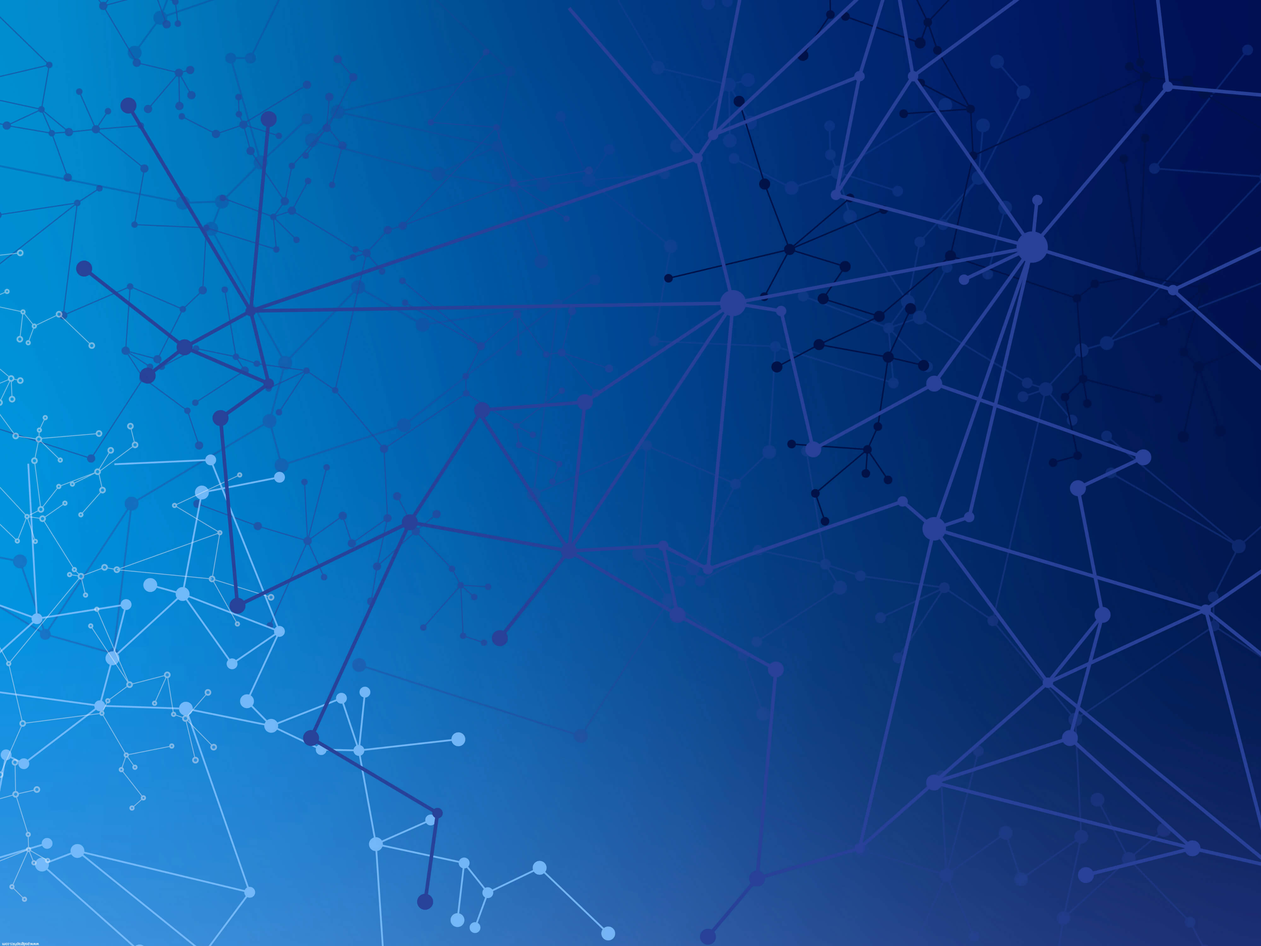
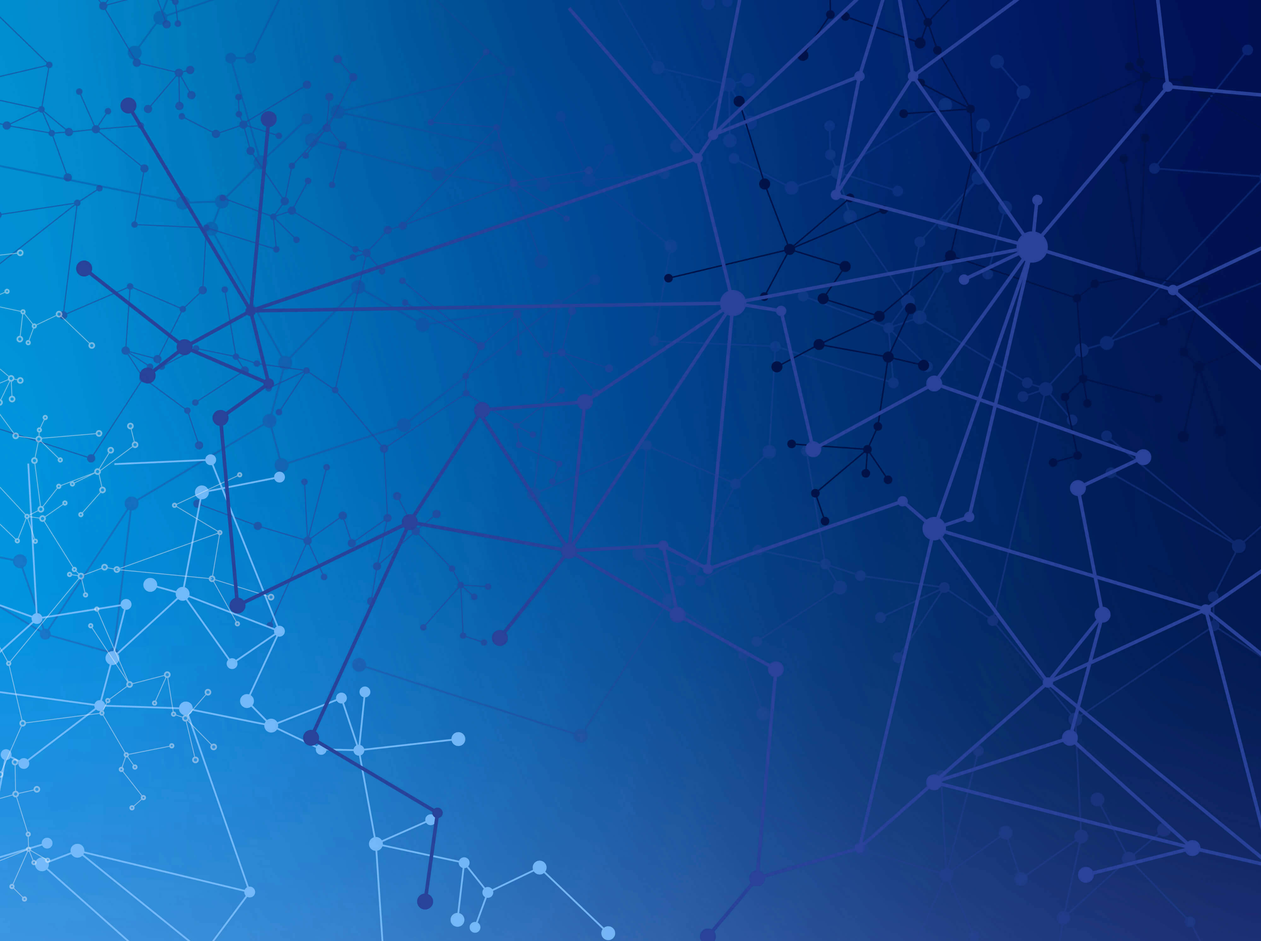
upgrade npm scripts, improve images, reorganize files

diff --git a/css/main.min.css b/css/main.min.css
@@ -1,0 +1,1 @@
+.page-landing,.page-landing h1,body{position:relative}.page-landing h1,.page-landing p{color:#fff;text-shadow:0 0 5px #000}.apply-pop-up .close,.card,.cta-btn,.plus-button,nav h4:hover,nav ul li a{cursor:pointer}a,abbr,acronym,address,applet,article,aside,audio,b,big,blockquote,body,canvas,caption,center,cite,code,dd,del,details,dfn,div,dl,dt,em,embed,fieldset,figcaption,figure,footer,form,h1,h2,h3,h4,h5,h6,header,hgroup,html,i,iframe,img,ins,kbd,label,legend,li,mark,menu,nav,object,ol,output,p,pre,q,ruby,s,samp,section,small,span,strike,strong,sub,summary,sup,table,tbody,td,tfoot,th,thead,time,tr,tt,u,ul,var,video{margin:0;padding:0;border:0;font:inherit;vertical-align:baseline}article,aside,details,figcaption,figure,footer,header,hgroup,menu,nav,section{display:block}body{line-height:1.5;width:100%;background-color:#111}ol,ul{list-style:none}blockquote,q{quotes:none}blockquote:after,blockquote:before,q:after,q:before{content:'';content:none}table{border-collapse:collapse;border-spacing:0}.cfm:after,.cfm:before{content:' ';display:table}.cfm:after{clear:both}h1,h2,h3,h4,h5,h6{font-family:"Open Sans",HelveticaNeue-Light,"Helvetica Neue Light","Helvetica Neue",Helvetica,Arial,"Lucida Grande",sans-serif;font-weight:300;margin:2rem 0 1rem;line-height:1.3}a,p{font-weight:400;line-height:1.7;font-family:"Open Sans",HelveticaNeue-Light,"Helvetica Neue Light","Helvetica Neue",Helvetica,Arial,"Lucida Grande",sans-serif}h2{font-size:2.5rem}h3{font-size:2rem}h4{font-size:1.75rem}h5{font-size:1.5rem}h6{font-size:1rem}p{margin:1rem 0 1.5rem}.page-landing{background-size:cover;background-position:center;box-shadow:0 0 4px 1px #111;min-height:100vh;top:51px;text-align:center;transition:all 0}.page-landing h1{font-family:"Open Sans",HelveticaNeue-Light,"Helvetica Neue Light","Helvetica Neue",Helvetica,Arial,"Lucida Grande",sans-serif;font-size:3rem;font-weight:300;text-align:center;line-height:1.3;margin:0 auto;display:inline-block}.page-landing p{max-width:400px;margin:40px auto 0;padding:0 10px;font-size:1.3rem}.page-landing.home{top:0;background-color:#ddd}.page-landing.home .above-the-fold{background-image:url(../img/network-background-dark.jpg);background-size:cover}.page-landing.home .fvi-logo-white{box-sizing:border-box;position:absolute;top:0;left:0;padding:10px;width:100%;max-width:80px}#overlay,.apply-pop-up,nav{position:fixed}.page-landing.home h2{margin:0;padding:1rem;font-size:3rem;color:#eee;text-shadow:0 0 5px #000}.page-landing.home h3{margin:0;font-size:1.8rem;padding-bottom:1rem;color:#ddd;text-shadow:0 0 5px #000}.page-landing.web{background-image:url(../img/web-landing.jpg);background-position:top}.page-landing.web h1{padding-top:20vh}.page-landing.cyber{background-image:url(../img/cyber-landing.jpg)}.page-landing.cyber h1{padding-top:25vh;text-shadow:0 0 5px #fff;-webkit-animation:cyber-h1 3s infinite alternate;-moz-animation:cyber-h1 3s infinite alternate;-o-animation:cyber-h1 3s infinite alternate;animation:cyber-h1 3s infinite alternate}.title-div{display:table;width:100%;height:250px}.title-div .title-headers{display:table-cell;vertical-align:middle}.cards-container{display:flex;box-sizing:border-box;flex-flow:row wrap;justify-content:center;align-items:flex-start;align-content:center;padding:20px;min-height:calc(100vh - 250px)}@keyframes cyber-h1{0%,60%{color:#fff;top:0;left:0}60.3%{color:rgba(255,255,255,.2);top:5px;left:5px}61%,62.5%{color:#fff;top:0;left:0}62.8%{color:rgba(255,255,255,.2);top:8px;left:8px}63.6%{color:#fff;top:0;left:0}80%{color:#fff;top:0;left:0;text-shadow:0 0 0 #fff}80.3%{color:rgba(255,255,255,.4);top:34px;left:34px;text-shadow:3px 3px 3px #fff}80.6%{color:#fff;top:0;left:0;text-shadow:0 0 5px #fff}83%{color:#fff;top:0;left:0}83.4%{color:rgba(255,255,255,.2);top:12px;left:12px;text-shadow:3px 3px 3px #fff}83.8%{color:#fff;top:0;left:0;text-shadow:0 0 5px #fff}85%{color:#fff;top:0;left:0}85.5%{color:rgba(255,255,255,.2);top:8px;left:8px}86%{color:#fff;top:0;left:0;text-shadow:0 0 0 #fff}92.4%{color:#fff;top:0;left:0;text-shadow:3px 3px 3px #fff}92.7%{color:rgba(255,255,255,.2);top:25px;left:25px}93%{color:rgba(255,255,255,.8);top:0;left:0;text-shadow:0 0 0 #fff}100%{color:#fff;top:0;left:0}}.infographic-container{width:100%;background-color:#fff;text-align:center}.infographic-container .infographic{box-sizing:border-box;width:100%;max-width:1000px;margin:0 auto;display:block}.programs-container{display:none;background-color:#111}footer{width:100%;background-color:#003e67;margin-top:-7px;text-align:center}.flexbox-container{display:block;text-align:center;max-width:900px;margin:auto}.campus-info-container,.links-container,.social-media-container{box-sizing:border-box;width:calc(100% / 3);min-width:200px;padding:20px;display:inline-block;vertical-align:top}.campus-info-container h4,.links-container h4,.social-media-container h4{color:#028dea;margin:0;padding-bottom:10px}.links-container a{font-size:.95rem;color:#eee;border-bottom:1px solid #eee;text-decoration:none;white-space:nowrap;line-height:2;border-bottom-color:transparent}.links-container a:focus,.links-container a:hover{border-bottom-width:2px;text-decoration:none;border-bottom-color:#eee}.links-container a:visited{color:#eee;border-color:#eee}.social-media-container a{margin:10px;color:#eee;display:inline-block;font-size:2rem}.social-media-container a:focus,.social-media-container a:hover{color:#ddd}.campus-info-container{text-align:left}.banner,.campus-info-container h4,.cta-btn,.plus-button,nav,nav ul{text-align:center}.campus-info-container img{box-sizing:border-box;width:100%;max-width:300px}.campus-info-container address{padding-left:10px}.campus-info-container address p{color:#eee;font-size:.9rem;margin:0}nav h4,nav ul li a{color:#ccc;font-family:"Open Sans",HelveticaNeue-Light,"Helvetica Neue Light","Helvetica Neue",Helvetica,Arial,"Lucida Grande",sans-serif}.sponsors-container{box-sizing:border-box;display:block;width:100%;text-align:center;background-color:#003558}nav ul li,nav ul li a{display:inline-block}nav h4:hover,nav ul li a:hover{background-color:#333;color:#028dea}.sponsors-container img{box-sizing:border-box;display:inline-block;vertical-align:middle;padding:20px;width:100%;max-width:300px}#overlay{background:#000;bottom:0;display:none;left:0;opacity:.7;right:0;top:0;z-index:101;color:#000;font-size:0}nav{width:100%;background-color:#222;z-index:1000;box-shadow:0 2px 8px 0 rgba(0,0,0,.7)}nav h4{font-size:14px;font-weight:400;padding:10px 0 7px;display:none;margin:0}nav ul li a{text-decoration:none;font-size:12px;font-weight:600;padding:15px;border-bottom:3px solid #222}nav ul li a:hover{border-color:#333}nav ul li .apply{color:#fff;background-color:#028dea;border-bottom-color:#028dea}nav ul li .apply:hover{border-color:#fff;color:#fff;background-color:#3baffd}.section-in-view{border-color:#028dea;background-color:#333}.home-button:hover{background-color:#000;border-color:#028dea}.apply-pop-up{box-sizing:border-box;display:none;width:calc(90vw - 30px);max-width:400px;margin:60px auto 0;left:50%;transform:translateX(-50%);border-radius:12px;padding:15px;background-color:#ddd;box-shadow:0 15px 70px 0 #000;z-index:1001}.apply-pop-up h3{color:#000;margin:0 0 10px}.apply-pop-up .close{font-size:1rem;color:#b00;background-color:transparent;border:none;position:absolute;top:3px;right:5px;padding:0;margin:0}.apply-pop-up .close:hover{color:#f22}.apply-pop-up form{box-sizing:border-box}.apply-pop-up form input,.apply-pop-up form textarea{box-sizing:border-box;width:100%;border-radius:5px;font-size:1rem;padding:8px;margin-top:10px;border:1px solid #ccc;transition:all .1s}.apply-pop-up form input:focus,.apply-pop-up form input:hover,.apply-pop-up form textarea:focus,.apply-pop-up form textarea:hover{outline:0;box-shadow:0 0 4px #000}.apply-pop-up form textarea{height:200px;font-family:"Open Sans",HelveticaNeue-Light,"Helvetica Neue Light","Helvetica Neue",Helvetica,Arial,"Lucida Grande",sans-serif}.apply-pop-up form button{display:block;font-size:1.2rem;padding:5px;border:none;border-radius:5px;background-color:#028dea;background-image:-webkit-linear-gradient(top,#21a6ff,#028DEA);background-image:-moz-linear-gradient(top,#21a6ff,#028DEA);background-image:-ms-linear-gradient(top,#21a6ff,#028DEA);background-image:-o-linear-gradient(top,#21a6ff,#028DEA);background-image:linear-gradient(to bottom,#21a6ff,#028DEA);color:#fff;cursor:pointer;margin-top:3px}#radio-cyber:not(:checked)~.programs-container .radio-cyber,#radio-web:not(:checked)~.programs-container .radio-web,.apply-pop-up .sent-message{display:none}.apply-pop-up form button:focus,.apply-pop-up form button:hover{background:#5abafa;background-image:-webkit-linear-gradient(top,#5abafa,#21a6ff);background-image:-moz-linear-gradient(top,#5abafa,#21a6ff);background-image:-ms-linear-gradient(top,#5abafa,#21a6ff);background-image:-o-linear-gradient(top,#5abafa,#21a6ff);background-image:linear-gradient(to bottom,#5abafa,#21a6ff)}input[name=program-selector]{position:absolute;opacity:0;top:-9999px;left:-9999px}.card{width:280px;margin:0 30px 40px;background-color:#444;border:3px solid #222;border-radius:6px;overflow:hidden;box-shadow:0 15px 40px 5px rgba(0,0,0,.7);transition:transform .2s}.card:hover{transform:scale(1.03)}.card figure img{width:100%}.card h4{color:#fff;margin:1rem auto;padding-bottom:.5rem}.card h4 .first-letter,.card h4 .second-letter{font-weight:400;color:#028dea}.arrow,.plus-button{border:none;color:#fff;z-index:100;display:block}.arrow{font-size:5rem;text-shadow:0 0 10px #000;position:absolute;left:calc(50% - 1.6rem)}.banner,.banner .image-block,.plus-button,section{position:relative}.arrow-down{bottom:13px;-webkit-animation:arrow-down 1s infinite;animation:arrow-down 1s infinite;-webkit-animation-timing-function:ease-out;animation-timing-function:ease-out;-webkit-animation-direction:alternate;animation-direction:alternate}@-webkit-keyframes arrow-down{from{bottom:23px}to{bottom:13px}}@keyframes arrow-down{from{bottom:23px}to{bottom:13px}}.arrow-up{top:-80px;-webkit-animation:arrow-up 1s infinite;animation:arrow-up 1s infinite;-webkit-animation-timing-function:ease-out;animation-timing-function:ease-out;-webkit-animation-direction:alternate;animation-direction:alternate}@-webkit-keyframes arrow-up{from{top:-70px}to{top:-80px}}@keyframes arrow-up{from{top:-70px}to{top:-80px}}.plus-button{background-color:#028dea;width:30px;height:30px;line-height:1.3;font-family:"Open Sans",HelveticaNeue-Light,"Helvetica Neue Light","Helvetica Neue",Helvetica,Arial,"Lucida Grande",sans-serif;font-weight:600;padding:0;font-size:1.4rem;border-radius:100%;margin:20px auto 0;-webkit-transition:all .6s ease-out;transition:all .6s ease-out}.banner .image-block,.banner h2,.cta-btn{display:inline-block}.plus-button:hover{background-color:#fff;color:#028dea}.plus-button:focus{outline:0}.plus-button.opened{color:#fff;background-color:rgba(150,150,150,.5);-webkit-transform-origin:center;transform-origin:center;-webkit-transform:translateY(60px) rotate(225deg);transform:translateY(60px) rotate(225deg)}.plus-button.opened:hover{color:#fff;background-color:rgba(100,100,100,.8)}.cta-btn{color:#fff;font-family:'Open Sans',HelveticaNeue-Light,"Helvetica Neue Light","Helvetica Neue",Helvetica,Arial,"Lucida Grande",sans-serif;font-size:1.2rem;font-weight:400;padding:5px 30px;margin-bottom:30px;margin-top:30px;border-radius:5px;box-shadow:0 3px 0 0 #555;z-index:200;-webkit-transition:all .3s;transition:all .3s}.cta-btn:active{box-shadow:none;-webkit-transform:translateY(3px);transform:translateY(3px);-webkit-transition:transform .1s,box-shadow .1s;-webkit-transition:box-shadow .1s,-webkit-transform .1s;transition:box-shadow .1s,-webkit-transform .1s;transition:transform .1s,box-shadow .1s;transition:transform .1s,box-shadow .1s,-webkit-transform .1s}.apply-btn{background:#e66;background-image:-webkit-linear-gradient(top,#e66,#b33);background-image:-moz-linear-gradient(top,#e66,#b33);background-image:-ms-linear-gradient(top,#e66,#b33);background-image:-o-linear-gradient(top,#e66,#b33);background-image:linear-gradient(to bottom,#e66,#b33)}.apply-btn:hover{background:#f77;background-image:-webkit-linear-gradient(top,#f77,#c44);background-image:-moz-linear-gradient(top,#f77,#c44);background-image:-ms-linear-gradient(top,#f77,#c44);background-image:-o-linear-gradient(top,#f77,#c44);background-image:linear-gradient(to bottom,#f77,#c44)}#certifications,#partners,#summary{background-position:center}#comparison,#tuition{background-position:top}#cirriculum,#resources,#student-work{background-position:bottom}.question-btn{background-color:#999}.question-btn:hover{background-color:#bbb}section{margin-top:80px;z-index:2}section:first-of-type{margin-top:131px}section:last-of-type{margin-bottom:80px}.banner{width:100%;padding:80px 0 120px;z-index:3;-webkit-transition:all .6s ease-in-out;transition:all .6s ease-in-out;background-size:cover;border-top:1px solid #222;border-bottom:1px solid #222}.banner h2{color:#fff;font-size:2.5rem;font-family:"Open Sans",HelveticaNeue-Light,"Helvetica Neue Light","Helvetica Neue",Helvetica,Arial,"Lucida Grande",sans-serif;font-weight:300;text-shadow:0 1px 8px #000;padding:40px 0 0;margin:0;-webkit-transition:all .6s;transition:all .6s}.banner .image-block{padding-bottom:30px;top:30px}.banner .image-block img{display:inline-block;width:90px;max-height:75px;margin:.5rem 1rem}.banner.shrink{padding:20px 0;box-shadow:0 -2px 4px 0 #111}.content-container{background-color:#efefef;box-shadow:0 0 4px 1px #111;width:100%;overflow:hidden;display:none}.content-container .content{margin:0 auto;max-width:600px;text-align:left;padding:10px 20px}.content-container .content h4{color:#003352;font-weight:400}.content-container .content h4:first-child{margin-top:45px}.content-container .content p{color:#333}.content-container .content a{color:#028dea;border-bottom:1px solid #028dea;text-decoration:none}.content-container .content a:focus,.content-container .content a:hover{border-bottom-width:2px;text-decoration:none}.content-container .content a:visited{color:#028dea;border-color:#028dea}.content .bold{font-weight:bolder}#summary{background-image:url(../img/keyboard.jpg)}#cirriculum{background-image:url(../img/courses.jpg)}#comparison{background-image:url(../img/code.jpg)}#certifications{background-image:url(../img/certifications.jpg)}#partners{background-image:url(../img/partners.jpg)}#tuition{background-image:url(../img/finance.jpg)}#resources{background-image:url(../img/resources.jpg)}#student-work{background-image:url(../img/projects.jpg)}#call-to-action-section{background-color:#003558;position:relative;margin-bottom:0}#call-to-action-section .content{padding:10px;text-align:center}#call-to-action-section .content .cta-btn-container{margin:0 auto}#call-to-action-section .content p{font-size:1.2rem;margin:2rem 0 1rem;color:#eee}@media all and (max-width:920px){.page-landing{top:0}footer .sponsors-container{padding-bottom:45px}.page-landing.home{background-position:center}.page-landing.home .fvi-logo-white{max-width:50px}.page-landing.web h1{font-size:3rem;padding-top:15vh}.page-landing.web p{font-size:1.2rem}.page-landing.cyber h1{font-size:3rem;padding-top:28vh}.page-landing.cyber p{font-size:1.5rem}nav{bottom:0;box-shadow:0 -1px 2px 0 rgba(0,0,0,.9)}nav h4{display:block;border-bottom:3px solid #222;background:#222;background-image:-webkit-linear-gradient(top,#555,#222);background-image:-moz-linear-gradient(top,#555,#222);background-image:-ms-linear-gradient(top,#555,#222);background-image:-o-linear-gradient(top,#555,#222);background-image:linear-gradient(to bottom,#555,#222)}nav h4:hover{border-color:#333;background:#333;background-image:-webkit-linear-gradient(top,#666,#333);background-image:-moz-linear-gradient(top,#666,#333);background-image:-ms-linear-gradient(top,#666,#333);background-image:-o-linear-gradient(top,#666,#333);background-image:linear-gradient(to bottom,#666,#333)}nav ul{display:none}nav ul li,nav ul li a{width:100%}nav ul li a{border-top:1px solid #333;font-size:14px;padding:10px 0 8px}nav ul li .home-button:focus,nav ul li .home-button:hover{border-top-color:#333;border-bottom-color:#111}nav ul li .apply:focus,nav ul li .apply:hover{border-top-color:#333;border-bottom-color:#3baffd}section:first-of-type{margin-top:80px}.banner h1{font-size:2rem}.banner .image-block{display:block;top:20px}.banner .image-block img{width:50px}}@media all and (max-width:760px){.title-div{height:200px}.page-landing.home h2{font-size:2.5rem}.page-landing.home h3{font-size:1.6rem}footer .sponsors-container img{max-width:250px}.page-landing.web h1{font-size:2.7rem;padding-top:16vh}.page-landing.web p{font-size:1.1rem;margin-top:1rem}.page-landing.cyber h1{font-size:2rem;padding-top:30vh}.page-landing.cyber p{font-size:1rem;margin-top:1rem}#call-to-action-section .content p{font-size:1rem;margin:1rem}}@media all and (max-width:760px) and (max-width:604px){.title-div{height:150px}.page-landing.home h2{max-width:370px;margin:auto}.cta-btn{display:block;max-width:200px}.apply-btn{margin:10px auto}.question-btn{margin:auto}footer .links-container a:nth-of-type(2):after{content:"\a";white-space:pre}}@media all and (max-width:400px){.page-landing.home h2{font-size:1.8rem;max-width:270px}.page-landing.home h3{font-size:1.1rem}.card h4{font-size:1.5rem;margin:.5rem 0}.apply-pop-up{margin-top:20px}.apply-pop-up form textarea{height:150px}.page-landing.web h1{font-size:2.3rem}.page-landing.web p{margin-top:1rem;font-size:.95rem}.page-landing.cyber h1{padding-top:27vh;font-size:1.8rem}.page-landing.cyber p{margin-top:3vh;font-size:.9rem}.campus-info-container,.links-container,.social-media-container{min-width:100%}footer .links-container a:after{content:"\a";white-space:pre}}

diff --git a/index.html b/index.html
@@ -167,11 +167,11 @@
                         <p></p>
                     </div>
                     <div class="content cyber radio-cyber">
-                        <h3>Heading 1</h3>
+                        <h4>Heading 1</h4>
                         <p>Miami ipsum D. Wade amet cafe con leche park west miami literally basel ricer mission bro collins ave midtown cocowalk completo vizcaya metrorail sweetwater. Que fancy supposably power love hour 836 park west oye morena.</p>
-                        <h3>Heading 2</h3>
+                        <h4>Heading 2</h4>
                         <p>Flagler arroz con mango abuelita hialeah pata sucia cafe bustelo. Telly abuelita metrorail critical mass Allapattah coconut grove dolphin mall doral booty bass. Ya tu sabes LIV ño telly abuelita que fancy no yeah, yeah no metrorail de pinga.</p>
-                        <h3>Heading 3</h3>
+                        <h4>Heading 3</h4>
                         <p>Pero like que cute irregardless, pastelitos LIV civic center vizcaya souwesera ocean drive ño critical mass art basel gorda. FIU quesito little haiti westchester Miami time doral cafe llave.</p>
                     </div>
                 </div>
@@ -204,11 +204,11 @@
                 </div>
                 <div class="content-container">
                     <div class="content cyber">
-                        <h3>Heading 1</h3>
+                        <h4>Heading 1</h4>
                         <p>Miami ipsum D. Wade amet cafe con leche park west miami literally basel ricer mission bro collins ave midtown cocowalk completo vizcaya metrorail sweetwater. Que fancy supposably power love hour 836 park west oye morena.</p>
-                        <h3>Heading 2</h3>
+                        <h4>Heading 2</h4>
                         <p>Flagler arroz con mango abuelita hialeah pata sucia cafe bustelo. Telly abuelita metrorail critical mass Allapattah coconut grove dolphin mall doral booty bass. Ya tu sabes LIV ño telly abuelita que fancy no yeah, yeah no metrorail de pinga.</p>
-                        <h3>Heading 3</h3>
+                        <h4>Heading 3</h4>
                         <p>Pero like que cute irregardless, pastelitos LIV civic center vizcaya souwesera ocean drive ño critical mass art basel gorda. FIU quesito little haiti westchester Miami time doral cafe llave.</p>
                     </div>
                 </div>
@@ -250,19 +250,19 @@
                 </div>
                 <div class="content-container">
                     <div class="content web radio-web">
-                        <p><span class="bold">Tuition &amp; Fees:</span> $13,925</p>
-                        <p><span class="bold">Books, Laptop, &amp; Supplies:</span> $1,050</p>
+                        <br>
+                        <p><span class="bold">Tuition &amp; Fees:</span> $13,925<br><span class="bold">Books, Laptop, &amp; Supplies:</span> $1,050</p>
                         <h4>Financial Aid: Everyone Can Afford A Quality Education</h4>
-                        <p>Since we are an accredited institutuion, many students can afford our programs with grants, loans, easy payments and other ways to manage tuition costs. Few, if any Coding Boot Camps or Web Developer Schools can offer the amount of options we can offer in terms of financing.</p>
+                        <p>Since we are an <a target="_blank" href="http://www.fvi.edu/en/about-FVI/">accredited</a> institutuion, many students can afford our programs with grants, loans, easy payments and other ways to manage tuition costs. Few, if any Coding Boot Camps or Web Developer Schools can offer the amount of options we can offer in terms of financing.</p>
                         <p>Florida Vocational Institute maintains a staff of financial aid professionals to assist students in obtaining the financial assistance they require to meet their educational expenses. Available resources include federal grant and loan programs, and student loans from private lenders.</p>
                         <p>Federal assistance programs are administered through the U.S. Department of Education. Any U.S. citizen, national, or person in the United States for other than temporary reasons who is enrolled and accepted may apply for these programs. Most forms of financial assistance are available for each July 1-June 30 award period.</p>
                         <p>Every student considering an application for financial aid should request a copy of the current guide, Funding Your Education, published by the U.S. Department of Education. This important document can be obtained online from <a target="_blank" title="The United States Office of Federal Student Aid" href="http://studentaid.ed.gov/">The United States Office of Federal Student Aid</a> and will assist persons in understanding eligibility requirements.</p>
                     </div>
                     <div class="content cyber radio-cyber">
-                        <p><span class="bold">Tuition &amp; Fees:</span> $13,925</p>
-                        <p><span class="bold">Books, Laptop, &amp; Supplies:</span> $2,475</p>
+                        <br>
+                        <p><span class="bold">Tuition &amp; Fees:</span> $13,925<br><span class="bold">Books, Laptop, &amp; Supplies:</span> $2,475</p>
                         <h4>Financial Aid: Everyone Can Afford A Quality Education</h4>
-                        <p>Since we are an accredited institutuion, many students can afford our programs with grants, loans, easy payments and other ways to manage tuition costs. Few, if any Coding Boot Camps or Web Developer Schools can offer the amount of options we can offer in terms of financing.</p>
+                        <p>Since we are an <a target="_blank" href="http://www.fvi.edu/en/about-FVI/">accredited</a> institutuion, many students can afford our programs with grants, loans, easy payments and other ways to manage tuition costs. Few, if any Coding Boot Camps or Web Developer Schools can offer the amount of options we can offer in terms of financing.</p>
                         <p>Florida Vocational Institute maintains a staff of financial aid professionals to assist students in obtaining the financial assistance they require to meet their educational expenses. Available resources include federal grant and loan programs, and student loans from private lenders.</p>
                         <p>Federal assistance programs are administered through the U.S. Department of Education. Any U.S. citizen, national, or person in the United States for other than temporary reasons who is enrolled and accepted may apply for these programs. Most forms of financial assistance are available for each July 1-June 30 award period.</p>
                         <p>Every student considering an application for financial aid should request a copy of the current guide, Funding Your Education, published by the U.S. Department of Education. This important document can be obtained online from <a target="_blank" title="The United States Office of Federal Student Aid" href="http://studentaid.ed.gov/">The United States Office of Federal Student Aid</a> and will assist persons in understanding eligibility requirements.</p>
@@ -319,11 +319,11 @@
             <section id="call-to-action-section" class="web cyber">
                 <a class="arrow arrow-up smoothScroll" href="#top"><i class="fa fa-angle-up" aria-hidden="true"></i></a>
                 <div class="content">
+                    <p class="radio-web">Learn to code in 9 months.<br>Become a Web Developer.</p>
+                    <p class="radio-cyber">Level up your job skills.<br>Become job-ready 9 months.</p>
                     <div class="cta-btn-container">
                         <span class="cta-btn apply-btn">Apply For Free <i class="fa fa-angle-double-right" aria-hidden="true"></i></span>
                     </div>
-                    <p class="radio-web">Learn to code in 9 months.<br>Become a Web Developer.</p>
-                    <p class="radio-cyber">Level up your job skills.<br>Become job-ready 9 months.</p>
                     <p></p>
                 </div>
                 <div class="line"></div>
@@ -338,10 +338,10 @@
             <div class="links-container">
                 <h4>Useful Links</h4>
                <ul>
-                   <li><a target="_blank" href="http://www.fvi.edu/en/blog">Blog</a></li>
-                   <li><a target="_blank" href="http://www.fvi.edu/consumer-information/">Consumer Information</a></li>
-                   <li><a target="_blank" href="http://www.fvi.edu/net-price-calculator/">Net Price Calculator</a></li>
-                   <li><a target="_blank" href="http://fvi.edu/annual_security_report/2015-Annual-Security-Report-FVI.pdf">Annual Security Report</a></li>
+                   <li><a target="_blank" href="http://www.fvi.edu/en/blog"><i class="fa fa-angle-double-right" aria-hidden="true"></i> Blog</a></li>
+                   <li><a target="_blank" href="http://www.fvi.edu/consumer-information/"><i class="fa fa-angle-double-right" aria-hidden="true"></i> Consumer Information</a></li>
+                   <li><a target="_blank" href="http://www.fvi.edu/net-price-calculator/"><i class="fa fa-angle-double-right" aria-hidden="true"></i> Net Price Calculator</a></li>
+                   <li><a target="_blank" href="http://fvi.edu/annual_security_report/2015-Annual-Security-Report-FVI.pdf"><i class="fa fa-angle-double-right" aria-hidden="true"></i> Annual Security Report</a></li>
                </ul>
             </div><!-- remove space
          --><div class="social-media-container">

diff --git a/js/bundle.min.js b/js/bundle.min.js
@@ -1,0 +1,1 @@
+(function e(t,n,r){function s(o,u){if(!n[o]){if(!t[o]){var a=typeof require=="function"&&require;if(!u&&a)return a(o,!0);if(i)return i(o,!0);var f=new Error("Cannot find module '"+o+"'");throw f.code="MODULE_NOT_FOUND",f}var l=n[o]={exports:{}};t[o][0].call(l.exports,function(e){var n=t[o][1][e];return s(n?n:e)},l,l.exports,e,t,n,r)}return n[o].exports}var i=typeof require=="function"&&require;for(var o=0;o<r.length;o++)s(r[o]);return s})({1:[function(require,module,exports){!function(){function show(){$("#overlay").fadeIn();$(".apply-pop-up").fadeIn()}function hide(){$("#overlay").fadeOut();$(".apply-pop-up").fadeOut()}function submit(){$.ajax({url:"",type:"post",data:$(".apply-pop-up form").serialize(),success:function(){$(this).closest("form").fadeOut(function(){$(this).closest(".sent-message").fadeIn()})}})}module.exports.show=show;module.exports.hide=hide;module.exports.submit=submit}()},{}],2:[function(require,module,exports){!function(){const mobileMenuWidth="920";module.exports.plusButtons=document.getElementsByClassName("plus-button");module.exports.mobileMenuWidth=mobileMenuWidth;module.exports.topPadding=window.innerWidth>=mobileMenuWidth?52:0}()},{}],3:[function(require,module,exports){$(document).ready(function(){"use strict";$(".page-landing.home").fadeIn(300);const g=require("./globals");const plusButtonFunctions=require("./plus-buttons");const menu=require("./menu");const form=require("./form");var $home=$(".page-landing.home");$(".plus-button").click(function(){if($(this).hasClass("opened")){plusButtonFunctions.close(this)}else{plusButtonFunctions.open(this)}});$(window).on("scroll",plusButtonFunctions.fixed);$(".card.web").click(function(){switchPage("web")});$(".card.cyber").click(function(){switchPage("cyber")});function switchPage(page){setupPage(page);$home.fadeOut(function(){window.scrollTo(0,0);$(".programs-container").fadeIn()})}function setupPage(page){var navItems=document.getElementsByClassName("nav-item "+page);var banners=document.getElementsByClassName("banner "+page);var landing=document.getElementsByClassName("page-landing "+page)[0];$(".home-button").on("click",function(e){e.preventDefault();menu.homeButtonSetup(navItems,page)});if(window.innerWidth>=g.mobileMenuWidth){$(window).on("scroll",function(){menu.navItemsStyle(navItems,page,banners,landing)})}var id=page=="web"?"WD":"IT";$("input[name='program_id']").attr("value",id)}window.addEventListener("scroll",function(){if(window.scrollY>"20"){$(".arrow-down").fadeOut(400)}else{$(".arrow-down").slideDown(400)}});$(".apply-btn, .nav-item.apply").click(function(e){e.preventDefault();form.show()});$(".apply-pop-up .close, #overlay").click(form.hide);$(".apply-pop-up form").submit(function(e){e.preventDefault();form.submit()});if(window.innerWidth<g.mobileMenuWidth){$("#menu-button, #menu-items li a").click(menu.mobileClick)}})},{"./form":1,"./globals":2,"./menu":4,"./plus-buttons":5}],4:[function(require,module,exports){!function(){const g=require("./globals");function homeButtonSetup(navItems,page){$(".programs-container").fadeOut(function(){window.scrollTo(0,0);$(".page-landing.home").fadeIn(function(){$("#overlay, .apply-pop-up").hide();$(".plus-button.opened").css({top:"0px",transition:".6s"}).removeClass("opened");$(".banner.shrink").next().hide();$(".banner.shrink").removeClass("shrink");$(".nav-item").removeClass("section-in-view");$(window).off("scroll",navItemsStyle)})});$(".home-button").off("click",homeButtonSetup)}function navItemsStyle(navItems,page,banners,landing){if(landing.getBoundingClientRect().bottom<"-24"){for(var j=0,y=banners.length;j<y;j++){if(banners[j].getBoundingClientRect().top<=g.topPadding&&(banners[j].nextSibling.nextSibling.getBoundingClientRect().bottom>g.topPadding||banners[j].getBoundingClientRect().bottom>g.topPadding)){navItems[j].classList.add("section-in-view")}else{navItems[j].classList.remove("section-in-view")}}}else{$(".nav-item").removeClass("section-in-view")}}function mobileClick(){var $menuButton=$("#menu-button span");if($menuButton.html()==="MENU"){$("nav ul").show(500,"easeOutQuad");$menuButton.html("CLOSE")}else{$("nav ul").hide(500,"easeOutQuad");$menuButton.html("MENU")}}module.exports.navItemsStyle=navItemsStyle;module.exports.homeButtonSetup=homeButtonSetup;module.exports.mobileClick=mobileClick}()},{"./globals":2}],5:[function(require,module,exports){!function(){const g=require("./globals");function open(button){var $button=$(button);var $banner=$(button.parentNode);$button.addClass("opened");$banner.addClass("shrink");$banner.next().slideDown(600,"easeOutQuad")}function close(button){var $button=$(button);var $banner=$(button.parentNode);var timing=window.scrollY==$banner.offset().top-g.topPadding?0:700;$("html, body").stop().animate({scrollTop:$banner.offset().top-g.topPadding},timing,"easeInOutQuad",function(){$button.removeClass("opened");$button.css({top:"0px",transition:"all .6s"});$banner.removeClass("shrink");$banner.next().slideUp(600,"easeInOutCubic")})}function fixed(){$(".plus-button.opened").each(function(i,button){var contentPosition=button.parentNode.nextSibling.nextSibling.getBoundingClientRect();var bottomPadding=window.innerWidth>=g.mobileMenuWidth?"96":"45";if(contentPosition.top<=String(g.topPadding)&&contentPosition.bottom>=bottomPadding){$(button).css({top:-contentPosition.top+g.topPadding+"px",transition:"0s"})}else{$(button).css({top:"0px",transition:"0s"})}})}module.exports.open=open;module.exports.close=close;module.exports.fixed=fixed}()},{"./globals":2}]},{},[3]);

diff --git a/css/main.css b/css/main.css
@@ -91,7 +91,7 @@ a {
   font-weight: 400;
   line-height: 1.7; }
 
-main {
+body {
   background-color: #111; }
 
 .page-landing {
@@ -105,7 +105,7 @@ main {
   text-align: center;
   transition: all 0; }
   .page-landing h1 {
-    font-family: 'Open Sans', "HelveticaNeue-Light", "Helvetica Neue Light", "Helvetica Neue", Helvetica, Arial, "Lucida Grande", sans-serif;
+    font-family: "Open Sans", "HelveticaNeue-Light", "Helvetica Neue Light", "Helvetica Neue", Helvetica, Arial, "Lucida Grande", sans-serif;
     font-size: 3rem;
     font-weight: 300;
     color: white;
@@ -127,11 +127,13 @@ main {
   top: 0;
   background-color: #ddd; }
   .page-landing.home .above-the-fold {
-    background-image: url("../img/network-background.jpg");
+    background-image: url("../img/network-background-dark.jpg");
     background-size: cover; }
   .page-landing.home .fvi-logo-white {
     box-sizing: border-box;
     position: absolute;
+    top: 0;
+    left: 0;
     padding: 10px;
     width: 100%;
     max-width: 80px; }
@@ -284,7 +286,8 @@ main {
     display: block; }
 
 .programs-container {
-  display: none; }
+  display: none;
+  background-color: #111; }
 
 footer {
   width: 100%;
@@ -392,7 +395,7 @@ nav {
   /* mobile Menu Button */
   /* Menu items */ }
   nav h4 {
-    font-family: 'Raleway', "HelveticaNeue-Light", "Helvetica Neue Light", "Helvetica Neue", Helvetica, Arial, "Lucida Grande", sans-serif;
+    font-family: "Open Sans", "HelveticaNeue-Light", "Helvetica Neue Light", "Helvetica Neue", Helvetica, Arial, "Lucida Grande", sans-serif;
     font-size: 14px;
     font-weight: 400;
     color: #ccc;
@@ -443,7 +446,7 @@ nav {
   display: none;
   width: calc(90vw - 30px);
   max-width: 400px;
-  margin: 10vh auto 0;
+  margin: 60px auto 0;
   position: fixed;
   left: 50%;
   transform: translateX(-50%);
@@ -604,7 +607,7 @@ input[name="program-selector"] {
   height: 30px;
   text-align: center;
   line-height: 1.3;
-  font-family: 'Open Sans', "HelveticaNeue-Light", "Helvetica Neue Light", "Helvetica Neue", Helvetica, Arial, "Lucida Grande", sans-serif;
+  font-family: "Open Sans", "HelveticaNeue-Light", "Helvetica Neue Light", "Helvetica Neue", Helvetica, Arial, "Lucida Grande", sans-serif;
   font-weight: 600;
   padding: 0;
   font-size: 1.4rem;
@@ -646,6 +649,7 @@ input[name="program-selector"] {
   border-radius: 5px;
   cursor: pointer;
   box-shadow: 0 3px 0 0 #555;
+  z-index: 200;
   -webkit-transition: all .3s;
   transition: all .3s; }
   .cta-btn:active {
@@ -701,7 +705,7 @@ section {
   .banner h2 {
     color: #fff;
     font-size: 2.5rem;
-    font-family: 'Open Sans', "HelveticaNeue-Light", "Helvetica Neue Light", "Helvetica Neue", Helvetica, Arial, "Lucida Grande", sans-serif;
+    font-family: "Open Sans", "HelveticaNeue-Light", "Helvetica Neue Light", "Helvetica Neue", Helvetica, Arial, "Lucida Grande", sans-serif;
     font-weight: 300;
     text-shadow: 0 1px 8px black;
     padding: 40px 0 0 0;
@@ -799,6 +803,7 @@ section {
       margin: 0 auto; }
     #call-to-action-section .content p {
       font-size: 1.2rem;
+      margin: 2rem 0 1rem;
       color: #eee; }
 
 @media all and (max-width: 920px) {
@@ -917,6 +922,10 @@ section {
   .card h4 {
     font-size: 1.5rem;
     margin: .5rem 0; }
+  .apply-pop-up {
+    margin-top: 20px; }
+    .apply-pop-up form textarea {
+      height: 150px; }
   .page-landing.web h1 {
     font-size: 2.3rem; }
   .page-landing.web p {

diff --git a/js/bundle.js b/js/bundle.js
@@ -1,6 +1,4 @@
 (function e(t,n,r){function s(o,u){if(!n[o]){if(!t[o]){var a=typeof require=="function"&&require;if(!u&&a)return a(o,!0);if(i)return i(o,!0);var f=new Error("Cannot find module '"+o+"'");throw f.code="MODULE_NOT_FOUND",f}var l=n[o]={exports:{}};t[o][0].call(l.exports,function(e){var n=t[o][1][e];return s(n?n:e)},l,l.exports,e,t,n,r)}return n[o].exports}var i=typeof require=="function"&&require;for(var o=0;o<r.length;o++)s(r[o]);return s})({1:[function(require,module,exports){
-'use strict';
-
 !function () {
     function show() {
         $('#overlay').fadeIn();
@@ -17,7 +15,7 @@
             url: '',
             type: 'post',
             data: $('.apply-pop-up form').serialize(),
-            success: function success() {
+            success: function () {
                 $(this).closest('form').fadeOut(function () {
                     $(this).closest('.sent-message').fadeIn();
                 });
@@ -31,10 +29,8 @@
 }();
 
 },{}],2:[function(require,module,exports){
-'use strict';
-
 !function () {
-    var mobileMenuWidth = '920';
+    const mobileMenuWidth = '920';
 
     module.exports.plusButtons = document.getElementsByClassName('plus-button');
     module.exports.mobileMenuWidth = mobileMenuWidth;
@@ -42,17 +38,15 @@
 }();
 
 },{}],3:[function(require,module,exports){
-'use strict';
-
 $(document).ready(function () {
     "use strict";
 
     $('.page-landing.home').fadeIn(300);
 
-    var g = require('./globals');
-    var plusButtonFunctions = require('./plus-buttons');
-    var menu = require('./menu');
-    var form = require('./form');
+    const g = require('./globals');
+    const plusButtonFunctions = require('./plus-buttons');
+    const menu = require('./menu');
+    const form = require('./form');
     var $home = $('.page-landing.home');
 
     // on button click, change button style and show content-container
@@ -138,10 +132,8 @@ $(document).ready(function () {
 });
 
 },{"./form":1,"./globals":2,"./menu":4,"./plus-buttons":5}],4:[function(require,module,exports){
-'use strict';
-
 !function () {
-    var g = require('./globals');
+    const g = require('./globals');
 
     function homeButtonSetup(navItems, page) {
         // switch to home page
@@ -192,10 +184,8 @@ $(document).ready(function () {
 }();
 
 },{"./globals":2}],5:[function(require,module,exports){
-'use strict';
-
 !function () {
-    var g = require('./globals');
+    const g = require('./globals');
 
     function open(button) {
         var $button = $(button);

diff --git a/css/sass/_landing.scss b/css/sass/_landing.scss
@@ -1,5 +1,5 @@
-main {
-    background-color: #111;
+body {
+  background-color: #111;
 }
 
 .page-landing {
@@ -13,7 +13,7 @@ main {
     transition: all 0;
 
     h1 {
-        font-family: 'Open Sans', "HelveticaNeue-Light", "Helvetica Neue Light", "Helvetica Neue", Helvetica, Arial, "Lucida Grande", sans-serif;
+        font-family: $open-sans;
         font-size: 3rem;
         font-weight: 300;
         color: rgba(255, 255, 255, 1);
@@ -40,13 +40,15 @@ main {
     background-color: #ddd;
 
     .above-the-fold {
-        background-image: url('../img/network-background.jpg');
+        background-image: url('../img/network-background-dark.jpg');
         background-size: cover;
     }
 
     .fvi-logo-white {
         box-sizing: border-box;
         position: absolute;
+        top: 0;
+        left: 0;
         padding: 10px;
         width: 100%;
         max-width: 80px;
@@ -152,4 +154,5 @@ main {
 
 .programs-container {
     display: none;
+    background-color: #111;
 }

diff --git a/css/sass/_menu.scss b/css/sass/_menu.scss
@@ -22,7 +22,7 @@ nav {
 
     /* mobile Menu Button */
     h4 {
-        font-family: 'Raleway', "HelveticaNeue-Light", "Helvetica Neue Light", "Helvetica Neue", Helvetica, Arial, "Lucida Grande", sans-serif;
+        font-family: $open-sans;
         font-size: 14px;
         font-weight: 400;
         color: #ccc;
@@ -48,7 +48,7 @@ nav {
                 display: inline-block;
                 text-decoration: none;
                 color: #ccc;
-                font-family: "Open Sans", "HelveticaNeue-Light", "Helvetica Neue Light", "Helvetica Neue", Helvetica, Arial, "Lucida Grande", sans-serif;
+                font-family: $open-sans;
                 font-size: 12px;
                 font-weight: 600;
                 padding: 15px 15px;

diff --git a/css/sass/_sections.scss b/css/sass/_sections.scss
@@ -27,7 +27,7 @@ section {
     h2 {
         color: #fff;
         font-size: 2.5rem;
-        font-family: 'Open Sans', "HelveticaNeue-Light", "Helvetica Neue Light", "Helvetica Neue", Helvetica, Arial, "Lucida Grande", sans-serif;
+        font-family: $open-sans;
         font-weight: 300;
         text-shadow: 0 1px 8px rgba(0, 0, 0, 1);
         padding: 40px 0 0 0;
@@ -148,6 +148,7 @@ section {
 
         p {
             font-size: 1.2rem;
+            margin: 2rem 0 1rem;
             color: #eee;
         }
     }

diff --git a/css/sass/_buttons.scss b/css/sass/_buttons.scss
@@ -73,7 +73,7 @@
     height: 30px;
     text-align: center;
     line-height: 1.3;
-    font-family: 'Open Sans', "HelveticaNeue-Light", "Helvetica Neue Light", "Helvetica Neue", Helvetica, Arial, "Lucida Grande", sans-serif;
+    font-family: $open-sans;
     font-weight: 600;
     padding: 0;
     font-size: 1.4rem;
@@ -123,6 +123,7 @@
     border-radius: 5px;
     cursor: pointer;
     box-shadow: 0 3px 0 0 #555;
+    z-index: 200;
     -webkit-transition: all .3s;
     transition: all .3s;
 

diff --git a/css/sass/_400max.scss b/css/sass/_400max.scss
@@ -14,6 +14,13 @@
             margin: .5rem 0;
         }
     }
+    .apply-pop-up {
+      margin-top: 20px;
+
+      form textarea {
+        height: 150px;
+      }
+    }
     .page-landing.web {
         h1 {
             font-size: 2.3rem;

diff --git a/css/sass/_form.scss b/css/sass/_form.scss
@@ -3,7 +3,7 @@
     display: none;
     width: calc(90vw - 30px); // 30px of padding
     max-width: 400px;
-    margin: 10vh auto 0;
+    margin: 60px auto 0;
     position: fixed;
     left: 50%;
     transform: translateX(-50%);
